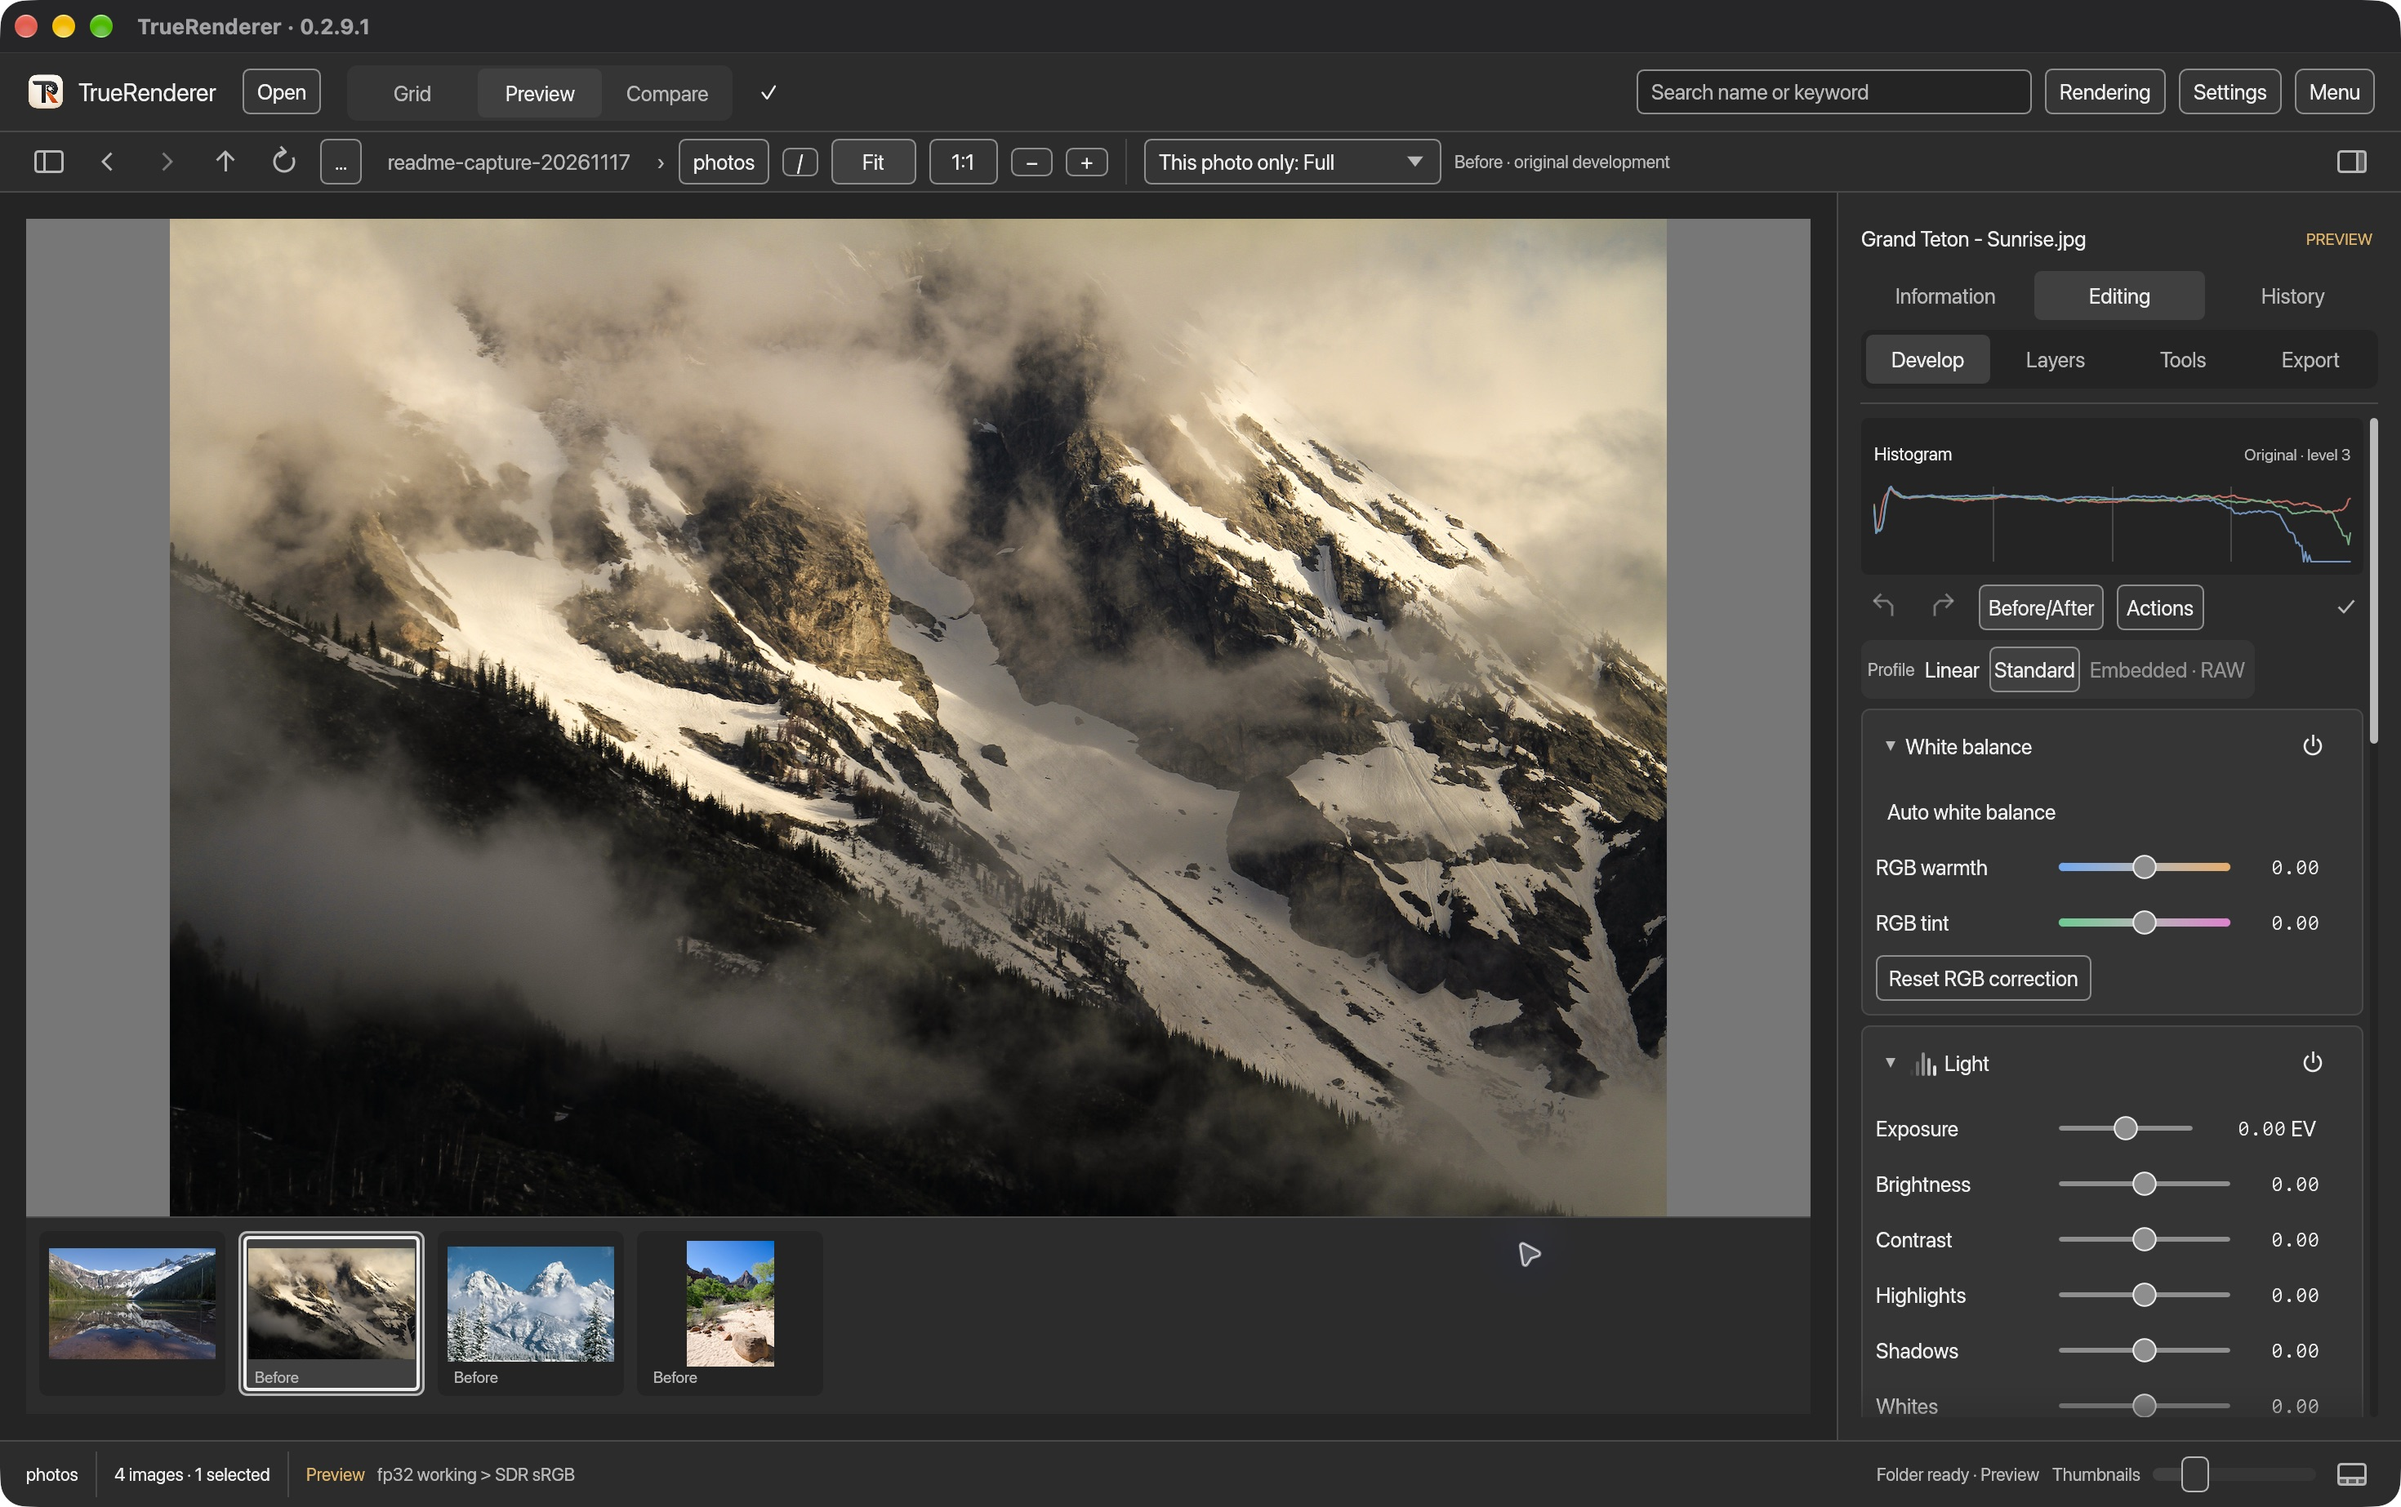
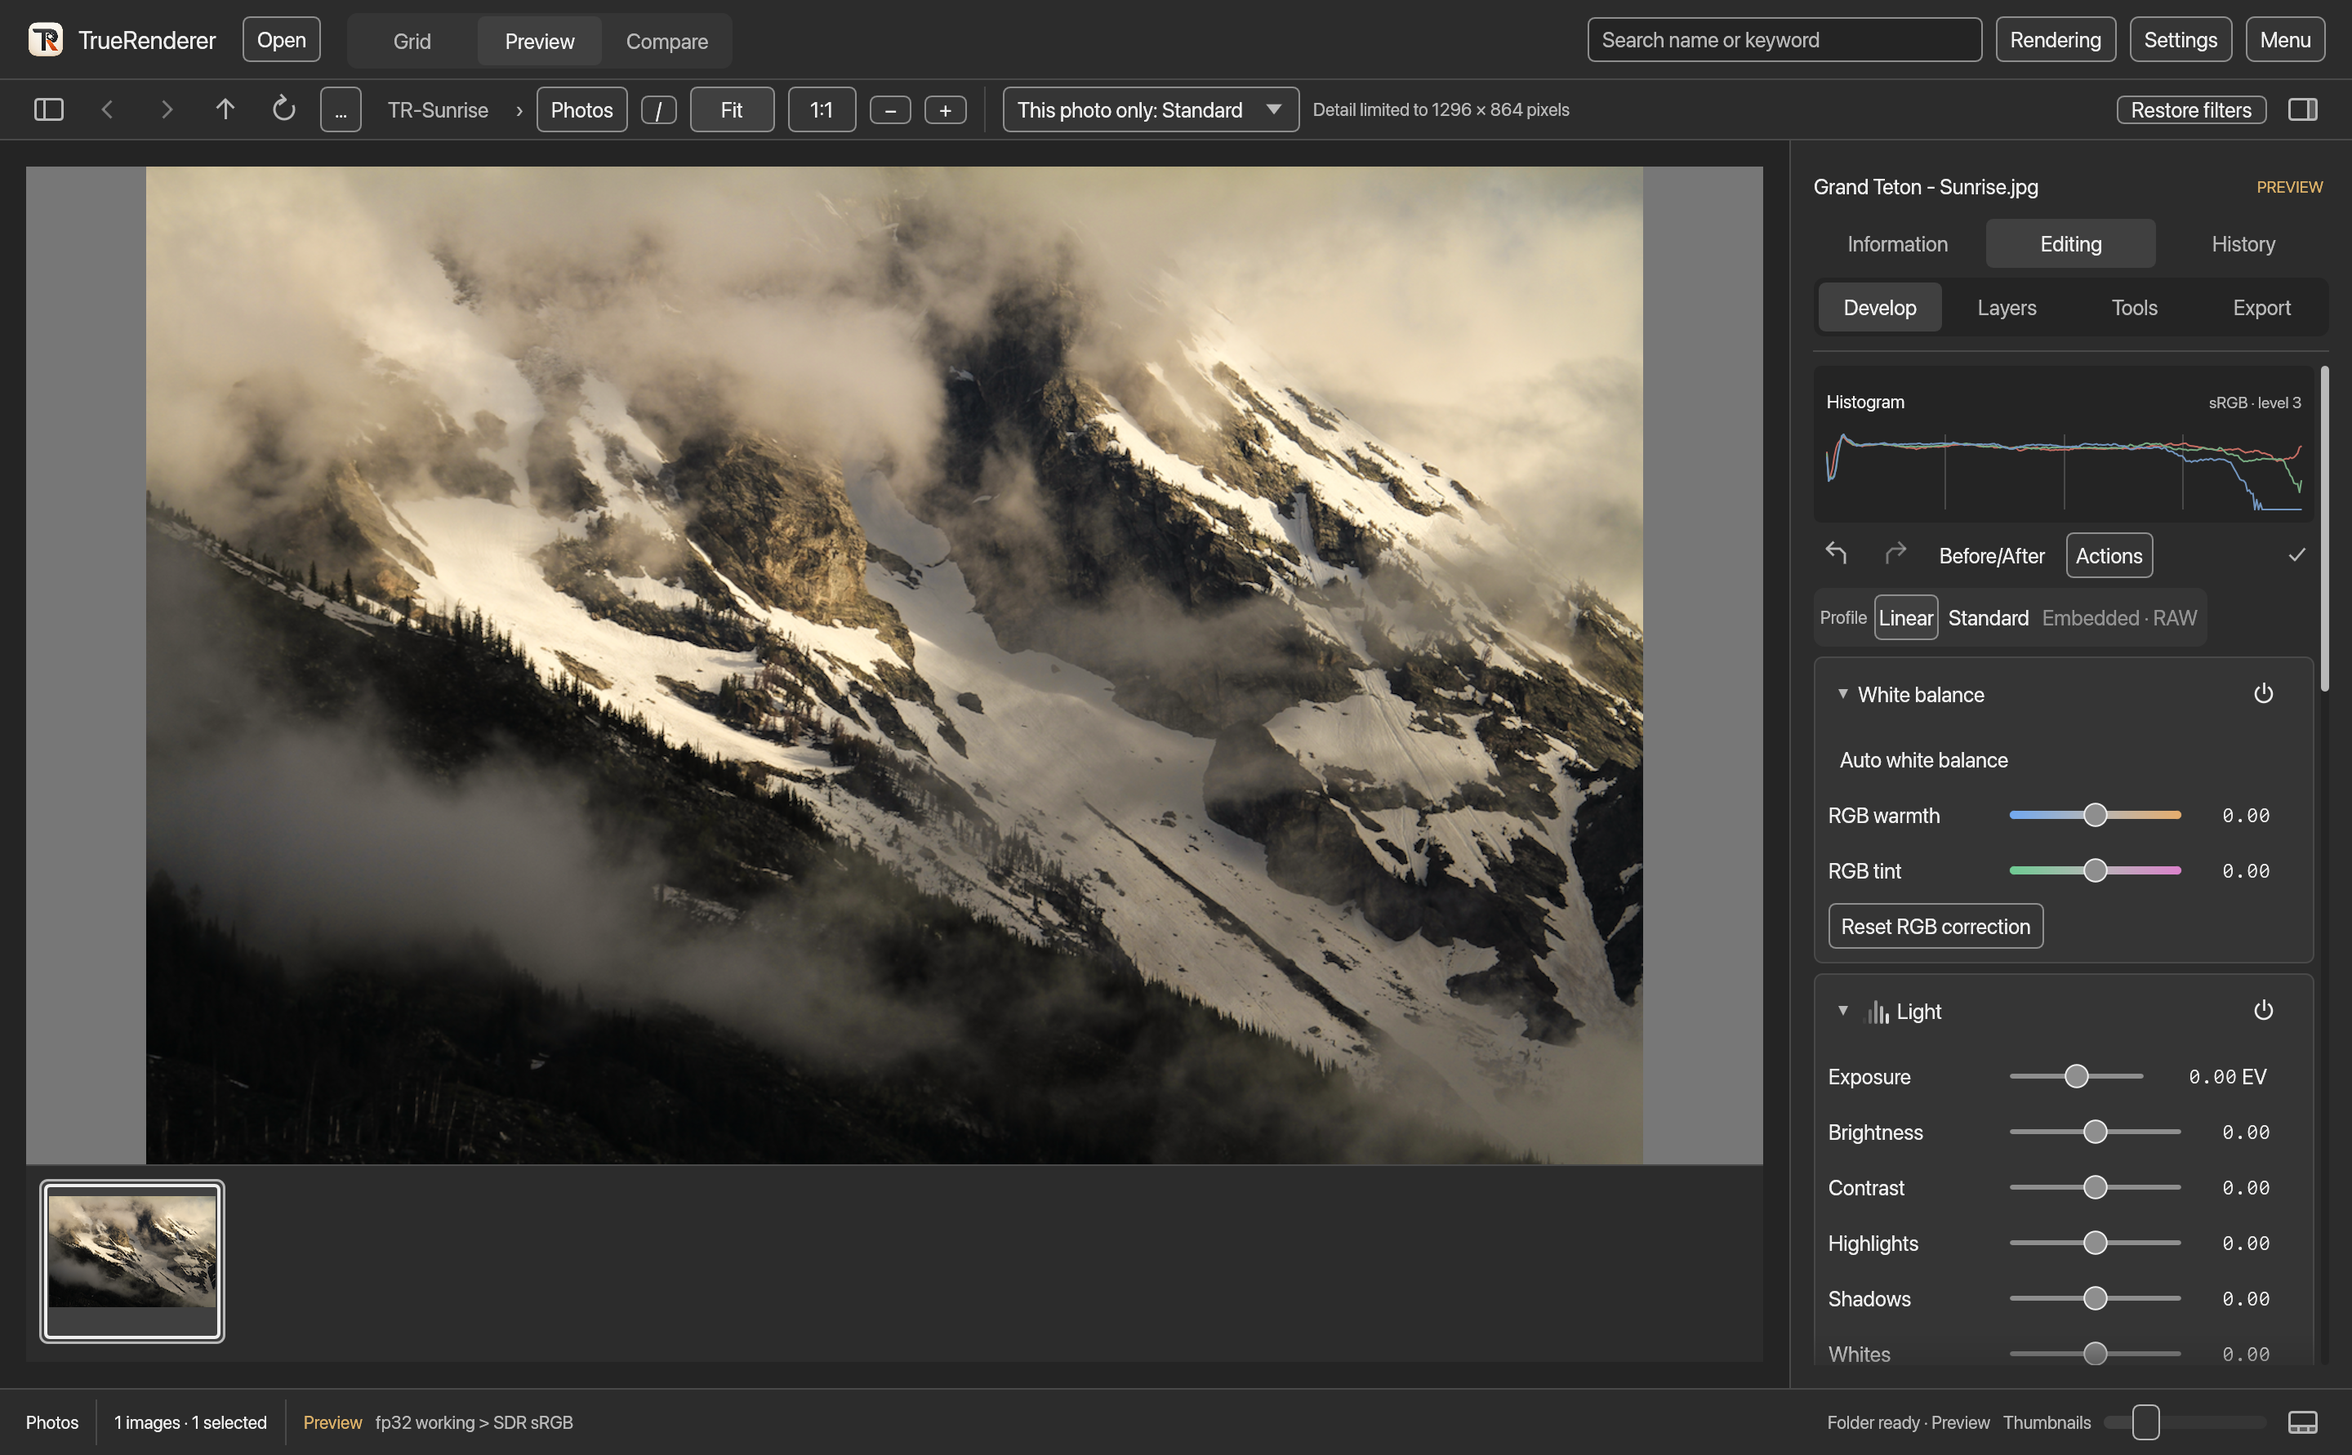
Show the six workspace themes first with neutral Sunrise screenshots

diff --git a/README.md b/README.md
@@ -17,6 +17,46 @@
 
 ---
 
+## Choose your workspace theme
+
+Compare all six workspace themes with the same photograph, *Grand Teton – Sunrise* by NPS photographer David Restivo. All adjustments were reset before capture. Each screenshot shows the Develop panel on macOS.
+
+### Standard
+
+The default graphite workspace, with neutral panels and ivory accents.
+
+<a href="assets/readme-theme-standard.png"><img src="assets/readme-theme-standard.png" width="640" alt="Grand Teton – Sunrise in the TrueRenderer workspace with the Standard theme"></a>
+
+### Black
+
+Deep black surfaces keep the workspace dark around the photograph.
+
+<a href="assets/readme-theme-black.png"><img src="assets/readme-theme-black.png" width="640" alt="Grand Teton – Sunrise in the TrueRenderer workspace with the Black theme"></a>
+
+### Soft black
+
+A lighter dark palette with softer separation between panels.
+
+<a href="assets/readme-theme-black-soft.png"><img src="assets/readme-theme-black-soft.png" width="640" alt="Grand Teton – Sunrise in the TrueRenderer workspace with the Soft black theme"></a>
+
+### Neutral gray
+
+A mid-gray workspace with dark text and neutral controls.
+
+<a href="assets/readme-theme-neutral-gray.png"><img src="assets/readme-theme-neutral-gray.png" width="640" alt="Grand Teton – Sunrise in the TrueRenderer workspace with the Neutral gray theme"></a>
+
+### White 80%
+
+Light gray panels offer a brighter workspace with a softer appearance than white.
+
+<a href="assets/readme-theme-white-80.png"><img src="assets/readme-theme-white-80.png" width="640" alt="Grand Teton – Sunrise in the TrueRenderer workspace with the White 80% theme"></a>
+
+### White
+
+A white workspace with dark text and clearly defined controls.
+
+<a href="assets/readme-theme-white.png"><img src="assets/readme-theme-white.png" width="640" alt="Grand Teton – Sunrise in the TrueRenderer workspace with the White theme"></a>
+
 ## Account and beta access
 
 **Discover TrueRenderer in beta.** Request access at **[truerenderer@gmail.com](mailto:truerenderer@gmail.com)** and explore a workspace built around your photographs. An account is required; beta access details are provided by the publisher.
@@ -341,50 +381,6 @@ Read image dimensions, format and available capture data alongside the photograp
 Return to a saved editing state or move forward again with Undo/Redo. The history keeps previous decisions accessible as you explore different versions of a photograph.
 
 <a href="assets/readme-history-panel.png"><img src="assets/readme-history-panel.png" width="320" alt="Photo editing history with Undo, Redo and three saved states"></a>
-
-
-
-
-
-## Choose your workspace theme
-
-Six interface themes let you choose the workspace you prefer. Each example shows the same Grand Teton photograph in Before view, with menus and settings closed. Themes change the interface; the photograph and its surround stay independent.
-
-### Standard
-
-The default graphite workspace, with neutral panels and ivory accents.
-
-<a href="assets/readme-theme-standard.png"><img src="assets/readme-theme-standard.png" width="640" alt="TrueRenderer full workspace in the Standard theme"></a>
-
-### Black
-
-Deep black surfaces keep the workspace dark around the photograph.
-
-<a href="assets/readme-theme-black.png"><img src="assets/readme-theme-black.png" width="640" alt="TrueRenderer full workspace in the Black theme"></a>
-
-### Soft black
-
-A lighter dark palette with softer separation between panels.
-
-<a href="assets/readme-theme-black-soft.png"><img src="assets/readme-theme-black-soft.png" width="640" alt="TrueRenderer full workspace in the Soft black theme"></a>
-
-### Neutral gray
-
-A mid-gray workspace with dark text and neutral controls.
-
-<a href="assets/readme-theme-neutral-gray.png"><img src="assets/readme-theme-neutral-gray.png" width="640" alt="TrueRenderer full workspace in the Neutral gray theme"></a>
-
-### White 80%
-
-Light gray panels offer a brighter workspace with a softer appearance than white.
-
-<a href="assets/readme-theme-white-80.png"><img src="assets/readme-theme-white-80.png" width="640" alt="TrueRenderer full workspace in the White 80% theme"></a>
-
-### White
-
-A white workspace with dark text and clearly defined controls.
-
-<a href="assets/readme-theme-white.png"><img src="assets/readme-theme-white.png" width="640" alt="TrueRenderer full workspace in the White theme"></a>
 
 ## Rights and credits
 
